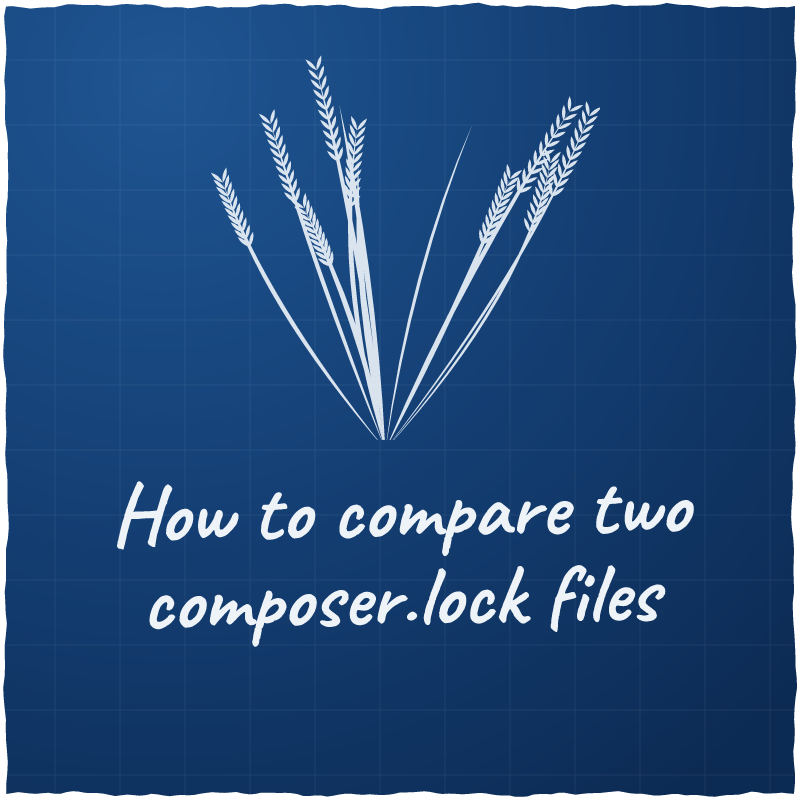
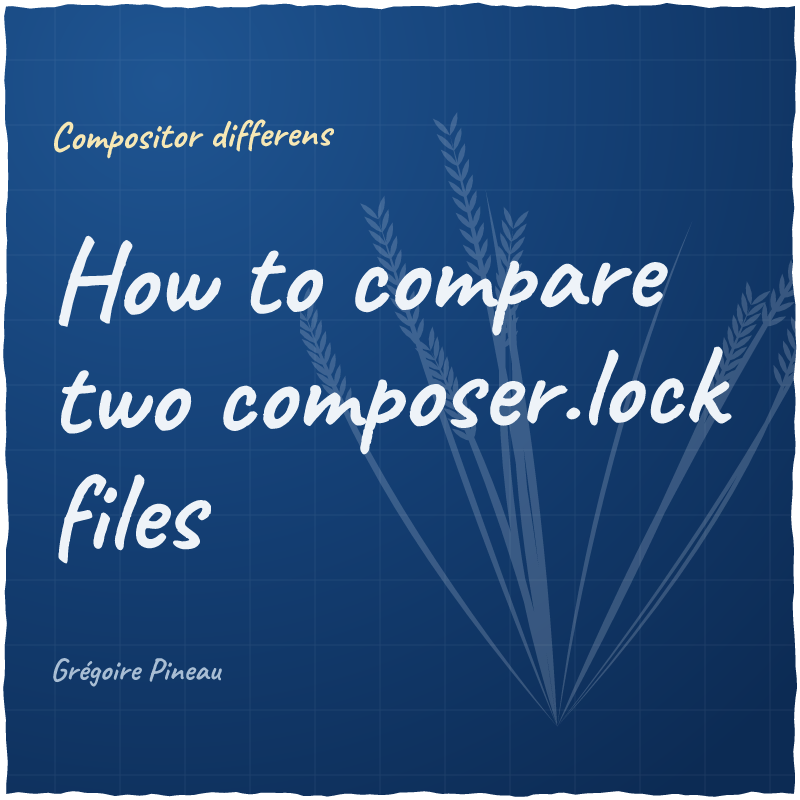
Draw the square sharing image as a big title over the plant, and put it first for Slack and Bluesky

diff --git a/layouts/_partials/link-preview.html b/layouts/_partials/link-preview.html
@@ -1,4 +1,4 @@
-{{- /* The tags read by the link previews, instead of Hugo's opengraph.html, to choose their order. Bluesky takes the first og:image, the wide one, and X reads twitter:image. Slack and Mastodon read the oEmbed first, which gives them the square image. */ -}}
+{{- /* The tags read by the link previews, instead of Hugo's opengraph.html, to choose their order. Slack, Mastodon and Bluesky take the first og:image, X reads twitter:image. */ -}}
 {{ if .IsPage -}}
 {{ $ISO8601 := "2006-01-02T15:04:05-07:00" -}}
 {{ with .Section }}<meta property="article:section" content="{{ . }}">
@@ -14,6 +14,13 @@
 <meta property="og:description" content="{{ trim (or .Description .Summary site.Params.description | plainify | htmlUnescape) "\n\r\t " }}">
 <meta property="og:locale" content="{{ replace (or .Params.locale site.Language.Locale) `-` `_` }}">
 <meta property="og:type" content="{{ if .IsPage }}article{{ else }}website{{ end }}">
+{{- /* The square comes first: Slack shows it whole, Bluesky keeps its middle band, where drawings/square.py draws the title. 800 is the size of static/img/square.png, the SIZE of drawings/square.py. */}}
+{{ $square := dict "Alt" site.Params.description "Height" 800 "Permalink" (absURL "img/square.png") "Width" 800 -}}
+{{ with .Resources.Get "square.png" }}{{ $square = dict "Alt" $.Title "Height" .Height "Permalink" .Permalink "Width" .Width }}{{ end -}}
+<meta property="og:image" content="{{ $square.Permalink }}">
+<meta property="og:image:width" content="{{ $square.Width }}">
+<meta property="og:image:height" content="{{ $square.Height }}">
+<meta property="og:image:alt" content="{{ $square.Alt }}">
 {{ $imageAlt := site.Params.description }}{{ if .Resources.Get "cover.png" }}{{ $imageAlt = .Title }}{{ end }}{{ with .Params.imageAlt }}{{ $imageAlt = . }}{{ end -}}
 {{ with index (partial "_funcs/get-page-images" .) 0 -}}
 <meta property="og:image" content="{{ .Permalink }}">
@@ -22,14 +29,5 @@
 <meta property="og:image:height" content="{{ .Height }}">
 {{ end -}}
 {{ end -}}
-{{ with partial "square-image.html" . -}}
-<meta property="og:image" content="{{ .Permalink }}">
-<meta property="og:image:width" content="{{ .Width }}">
-<meta property="og:image:height" content="{{ .Height }}">
-<meta property="og:image:alt" content="{{ .Alt }}">
-{{ end -}}
 {{ partial "twitter_cards.html" . }}
 <meta name="twitter:image:alt" content="{{ $imageAlt }}">
-{{ with .OutputFormats.Get "oembed" -}}
-<link rel="alternate" type="application/json+oembed" href="{{ .Permalink }}" title="{{ $.Title }}">
-{{ end -}}

diff --git a/castor.php b/castor.php
@@ -28,6 +28,7 @@ const DRAWINGS_DIRECTORY = __DIR__.'/drawings';
 const HUGO = ['mise', 'exec', '--', 'hugo'];
 const POSTS_DIRECTORY = __DIR__.'/content/posts';
 const SITE_COVER = __DIR__.'/static/img/cover.png';
+const SITE_COVER_LATIN = 'Filix lyrixxi';
 const SITE_COVER_TITLE = 'A geek’s herbarium';
 const SITE_SQUARE = __DIR__.'/static/img/square.png';
 
@@ -64,7 +65,7 @@ function post_new(
     ], flags: Yaml::DUMP_EMPTY_ARRAY_AS_SEQUENCE);
     fs()->dumpFile($directory.'/index.md', "---\n{$frontMatter}---\n\n");
     draw_cover($directory, $title, $latin);
-    draw_square($directory, $title);
+    draw_square($directory, $title, $latin);
 
     io()->success([
         \sprintf('Created content/posts/%s/index.md, with a plant of style "%s".', $slug, $style),
@@ -287,7 +288,7 @@ function draw_published_covers(bool $force = false): int
             ++$drawn;
         }
         if ($force || !is_file($directory.'/square.png')) {
-            draw_square($directory, $frontMatter['title']);
+            draw_square($directory, $frontMatter['title'], $frontMatter['latin']);
             ++$drawn;
         }
     }
@@ -303,7 +304,7 @@ function draw_draft_covers(): int
         $frontMatter = read_front_matter($file->getPathname());
         if ($frontMatter['draft'] ?? false) {
             draw_cover($file->getPath(), $frontMatter['title'], $frontMatter['latin']);
-            draw_square($file->getPath(), $frontMatter['title']);
+            draw_square($file->getPath(), $frontMatter['title'], $frontMatter['latin']);
             $drawn += 2;
         }
     }
@@ -319,19 +320,19 @@ function draw_cover(string $directory, string $title, string $latin): void
 
 function draw_site_cover(): void
 {
-    run_drawing_python(DRAWINGS_DIRECTORY.'/cover.py', __DIR__.'/static/img/fern.svg', SITE_COVER, SITE_COVER_TITLE, 'Filix lyrixxi');
+    run_drawing_python(DRAWINGS_DIRECTORY.'/cover.py', __DIR__.'/static/img/fern.svg', SITE_COVER, SITE_COVER_TITLE, SITE_COVER_LATIN);
     io()->writeln('Drew the cover of the site');
 }
 
-function draw_square(string $directory, string $title): void
+function draw_square(string $directory, string $title, string $latin): void
 {
-    run_drawing_python(DRAWINGS_DIRECTORY.'/square.py', $directory.'/plant.svg', $directory.'/square.png', $title);
+    run_drawing_python(DRAWINGS_DIRECTORY.'/square.py', $directory.'/plant.svg', $directory.'/square.png', $title, $latin);
     io()->writeln(\sprintf('Drew the square cover of %s', basename($directory)));
 }
 
 function draw_site_square(): void
 {
-    run_drawing_python(DRAWINGS_DIRECTORY.'/square.py', __DIR__.'/static/img/fern.svg', SITE_SQUARE, SITE_COVER_TITLE);
+    run_drawing_python(DRAWINGS_DIRECTORY.'/square.py', __DIR__.'/static/img/fern.svg', SITE_SQUARE, SITE_COVER_TITLE, SITE_COVER_LATIN);
     io()->writeln('Drew the square cover of the site');
 }
 

diff --git a/drawings/square.py b/drawings/square.py
@@ -1,34 +1,43 @@
-"""Draws the square image shown when a page is shared: square.py <plant.svg> <square.png> <title>.
+"""Draws the square image shown when a page is shared: square.py <plant.svg> <square.png> <title> <latin name>.
 
-Some apps (WhatsApp, Slack…) show the link with a square thumbnail: a centred crop of cover.png would cut the title.
+Slack shows it whole, as a square thumbnail. Bluesky keeps only its middle band, in the 1200/630
+ratio of its cards: the title lives in this band, over the plant drawn as a watermark, and the latin
+name and the author around it.
 """
 import sys
+import tomllib
 from pathlib import Path
 
 import resvg_py
 
-from blueprint import sheet, text
+from blueprint import CREAM, REPOSITORY, SOFT, sheet, text
 from cover import TITLE_LEADING, fit, plant
 
-# Keep in sync with the size of the site's square in layouts/_partials/square-image.html.
+# Keep in sync with the size of the site's square in layouts/_partials/link-preview.html.
 SIZE = 800
-TITLE_MAX_HEIGHT = 280
-TITLE_MAX_WIDTH = 680
-TITLE_SIZES = (84, 72, 62, 54, 48)
-TITLE_TOP = 470
+BAND_HEIGHT = SIZE * 630 / 1200
+BAND_TOP = (SIZE - BAND_HEIGHT) / 2
+LEFT = 50
+TITLE_MAX_HEIGHT = BAND_HEIGHT - 30
+TITLE_MAX_WIDTH = SIZE - 2 * LEFT
+TITLE_SIZES = (128, 112, 100, 88, 78, 70, 62)
+WATERMARK_OPACITY = .2
 
 
-def main(plant_path, square_path, title):
+def main(plant_path, square_path, title, latin):
     square_path = Path(square_path)
+    author = tomllib.loads((REPOSITORY / 'hugo.toml').read_text(encoding='utf-8'))['title']
     size, lines = fit(title, TITLE_SIZES, TITLE_MAX_WIDTH, TITLE_MAX_HEIGHT)
     leading = size * TITLE_LEADING
-    first = TITLE_TOP + size * .8
+    first = SIZE / 2 - (len(lines) - 1) * leading / 2 + size * .3
 
     def content(rng):
-        out = plant(Path(plant_path), 200, 40, 400, 400)
+        # On the right, and larger than the sheet: the plant overflows it, as a watermark.
+        out = f'<g opacity="{WATERMARK_OPACITY}">{plant(Path(plant_path), 300, 20, 560, 760)}</g>'
+        out += text(latin, LEFT, BAND_TOP - 40, 40, fill=CREAM, rot=-1)
         for i, line in enumerate(lines):
-            out += text(line, SIZE / 2, first + i * leading, size, anchor='middle', rot=-1)
-        return out
+            out += text(line, LEFT, first + i * leading, size, rot=-1)
+        return out + text(author, LEFT, BAND_TOP + BAND_HEIGHT + 70, 32, fill=SOFT, rot=0)
 
     svg = sheet(square_path.parent.name, content, SIZE, SIZE)
     square_path.write_bytes(bytes(resvg_py.svg_to_bytes(svg_string=svg)))

diff --git a/docs/drawing-style.md b/docs/drawing-style.md
@@ -85,17 +85,20 @@ Trois couleurs, pas une de plus :
   deux fichiers `*cover*`. Ne pas ajouter d'autre fichier `*cover*` dans le dossier de l'article.
 - Les pages sans image propre, comme l'accueil, utilisent `static/img/cover.png`, déclaré par
   `images` dans `hugo.toml`.
-- Chaque article a aussi un `square.png` de 800 × 800 (la plante, le titre dessous), pour les
-  applications qui montrent le lien avec une vignette carrée : un recadrage de `cover.png` au centre
-  couperait le titre. `drawings/square.py` le dessine, `castor post:covers` le lance, et
-  `layouts/_partials/link-preview.html` le déclare en deuxième `og:image`, après `cover.png`.
-  Le carré garde la plante même quand l'article a un `cover-custom`. Les pages sans image propre
-  utilisent `static/img/square.png`.
-- Chaque plateforme prend son image ailleurs :
-  - Bluesky prend la première `og:image` et la recadre en 1200/630 : ce doit être l'image large.
-  - Slack et Mastodon lisent d'abord le oEmbed de la page (`oembed.json`, écrit par
-    `layouts/all.oembed.json`), qui leur donne le carré. Mastodon n'y trouve pas de description.
-  - X lit `twitter:image`, qui reste l'image large.
+- Chaque article a aussi un `square.png` de 800 × 800, déclaré en première `og:image` par
+  `layouts/_partials/link-preview.html`, avant `cover.png`. `drawings/square.py` le dessine, et
+  `castor post:covers` le lance. Les pages sans image propre utilisent `static/img/square.png`.
+- Slack, Mastodon et Bluesky prennent la première `og:image`, mais ne la recadrent pas pareil :
+  - Slack la montre en vignette carrée : il voit le carré entier.
+  - Bluesky la recadre au centre en 1200/630 : il garde la bande du milieu, de 800 × 420.
+  - Mastodon la montre en petite carte, à gauche du titre.
+- Le carré met donc le titre, en grand, dans la bande du milieu, sur la plante en filigrane à
+  droite, et le nom latin et l'auteur au-dessus et au-dessous. Il garde la plante même quand
+  l'article a un `cover-custom`.
+- X lit `twitter:image`, qui reste l'image large.
+- Testé en novembre 2026, et qui ne marche pas : mettre l'image large en premier (Slack la recadre
+  au centre et coupe le titre), compter sur les dimensions déclarées (Slack et Bluesky les
+  ignorent) ou donner le carré par oEmbed (Slack ne le lit pas sur ce site).
 - Il ne s'appelle pas `cover-square.png` : Hugo le prendrait pour un fichier `*cover*`.
 
 ## Exemples

diff --git a/CLAUDE.md b/CLAUDE.md
@@ -39,7 +39,7 @@ Dans le Markdown :
 - La plante de la page 404 est `static/img/404.svg`, écrite par `castor plant:generate sprig 404 --alone`.
 - La ligne d'état en bas de la fenêtre est `layouts/_partials/status-line.html`.
 - Le flux RSS a ses propres gabarits de titre et de bloc de code (`layouts/_markup/*.rss.xml`), sans ancre ni bouton.
-- Les balises des aperçus de liens sont dans `layouts/_partials/link-preview.html`, et non dans le `opengraph.html` de Hugo, pour en choisir l'ordre : `article:*`, `og:*`, l'image large puis le carré, `twitter:*`, et le lien vers le oEmbed de la page (`layouts/all.oembed.json`). Bluesky prend la première `og:image`, X `twitter:image`, Slack et Mastodon le carré du oEmbed.
+- Les balises des aperçus de liens sont dans `layouts/_partials/link-preview.html`, et non dans le `opengraph.html` de Hugo, pour en choisir l'ordre : `article:*`, `og:*`, le carré puis l'image large, et enfin `twitter:*`. Slack, Mastodon et Bluesky prennent la première `og:image`, X `twitter:image` (voir `docs/drawing-style.md`).
 
 ## Déploiement
 
